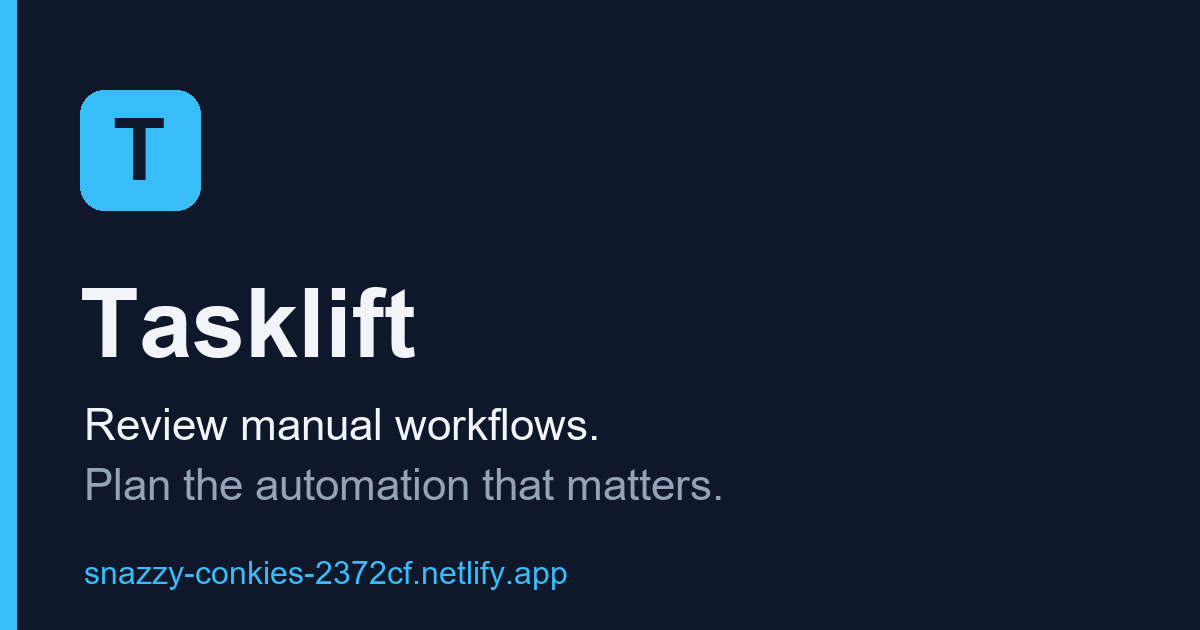
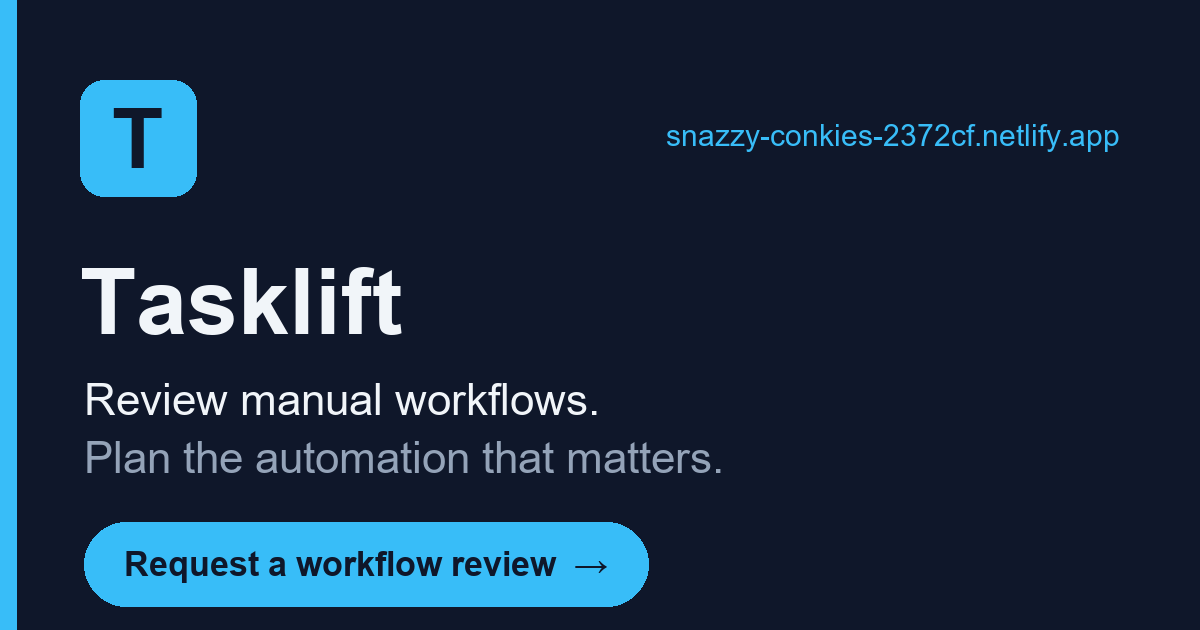
Day 24: add CTA to OG share image
Adds a "Request a workflow review →" pill to og-image.png and moves the
domain to the top-right. Clears the opengraph.xyz "no CTA in image" warning
(was the only advisory; 0 errors, 12 checks pass).

diff --git a/scripts/gen_og_assets.py b/scripts/gen_og_assets.py
@@ -23,12 +23,26 @@ W, H = 1200, 630
 img = Image.new("RGB", (W, H), BG)
 d = ImageDraw.Draw(img)
 d.rectangle([0, 0, 16, H], fill=ACCENT)
-d.rounded_rectangle([80, 90, 200, 210], radius=24, fill=ACCENT)
-d.text((140, 150), "T", font=font(bold, 86), fill=BG, anchor="mm")
-d.text((80, 270), "Tasklift", font=font(bold, 96), fill=WHITE)
-d.text((84, 400), "Review manual workflows.", font=font(reg, 44), fill=WHITE)
-d.text((84, 460), "Plan the automation that matters.", font=font(reg, 44), fill=MUTED)
-d.text((84, 555), "snazzy-conkies-2372cf.netlify.app", font=font(reg, 32), fill=ACCENT)
+d.rounded_rectangle([80, 80, 196, 196], radius=24, fill=ACCENT)
+d.text((138, 138), "T", font=font(bold, 84), fill=BG, anchor="mm")
+# domain, small, top-right
+d.text((1120, 118), "snazzy-conkies-2372cf.netlify.app", font=font(reg, 30), fill=ACCENT, anchor="ra")
+# headline + tagline
+d.text((80, 250), "Tasklift", font=font(bold, 92), fill=WHITE)
+d.text((84, 375), "Review manual workflows.", font=font(reg, 44), fill=WHITE)
+d.text((84, 433), "Plan the automation that matters.", font=font(reg, 44), fill=MUTED)
+
+# CTA pill (accent fill, dark text) — clears the "no CTA in image" share-preview warning
+cta = "Request a workflow review  →"
+fCta = font(bold, 34)
+tb = d.textbbox((0, 0), cta, font=fCta)
+tw, th = tb[2] - tb[0], tb[3] - tb[1]
+pad_x, pad_y = 40, 26
+px1, py1 = 84, 522
+px2, py2 = px1 + tw + pad_x * 2, py1 + th + pad_y * 2
+d.rounded_rectangle([px1, py1, px2, py2], radius=(py2 - py1) // 2, fill=ACCENT)
+d.text(((px1 + px2) // 2, (py1 + py2) // 2), cta, font=fCta, fill=BG, anchor="mm")
+
 img.save(os.path.join(OUT, "og-image.png"), optimize=True)
 
 # ---- apple-touch-icon 180x180 ----
